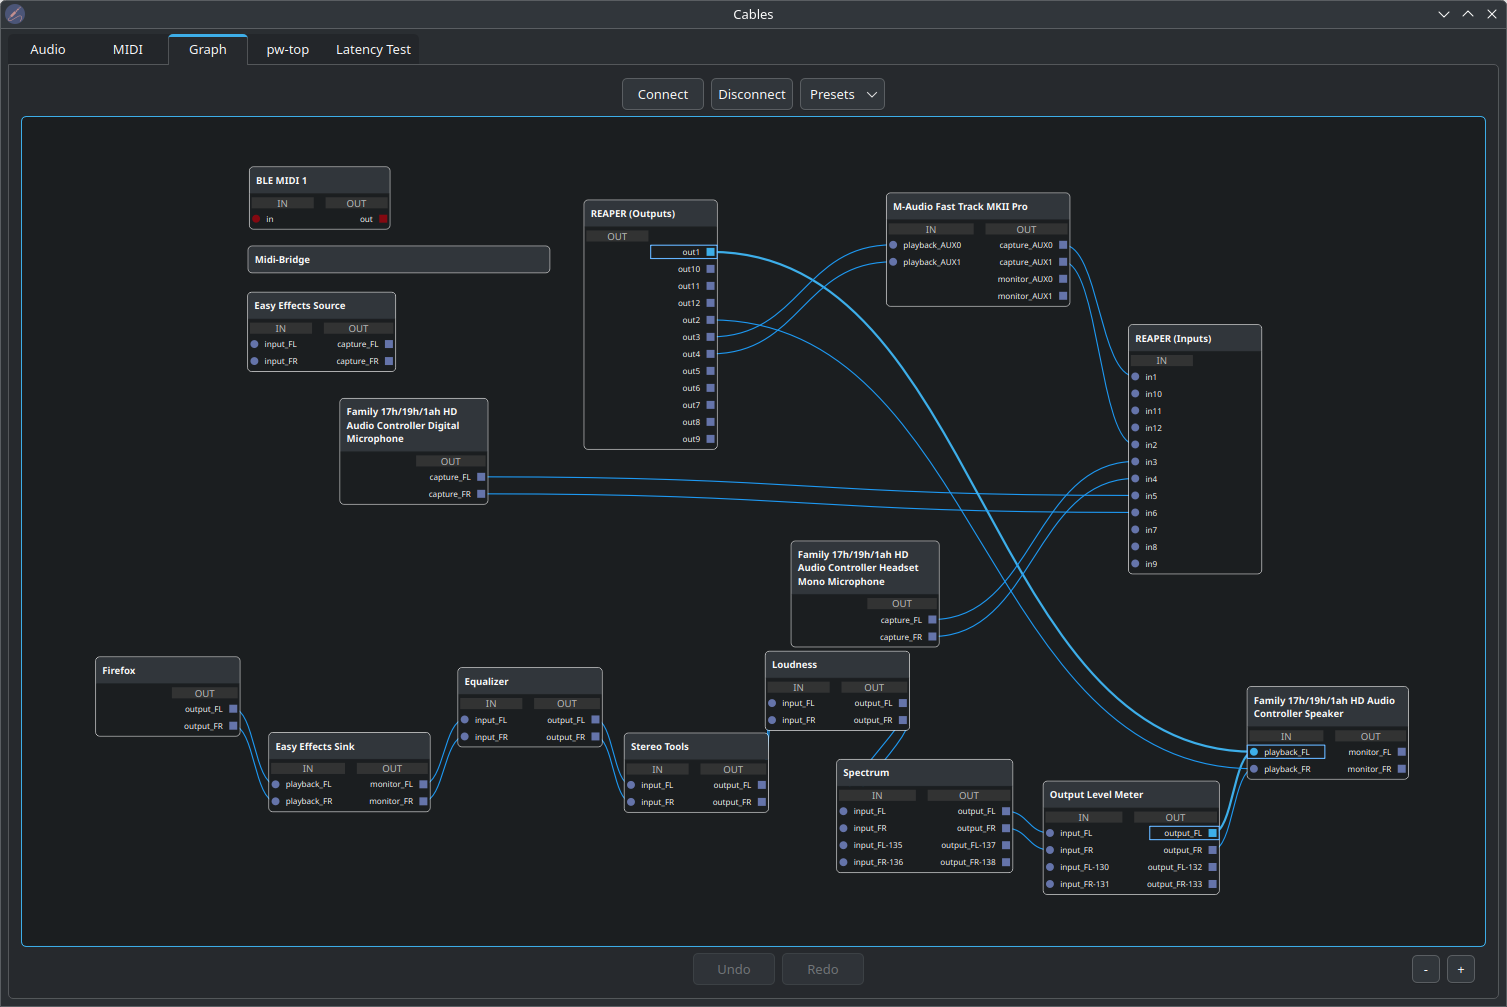
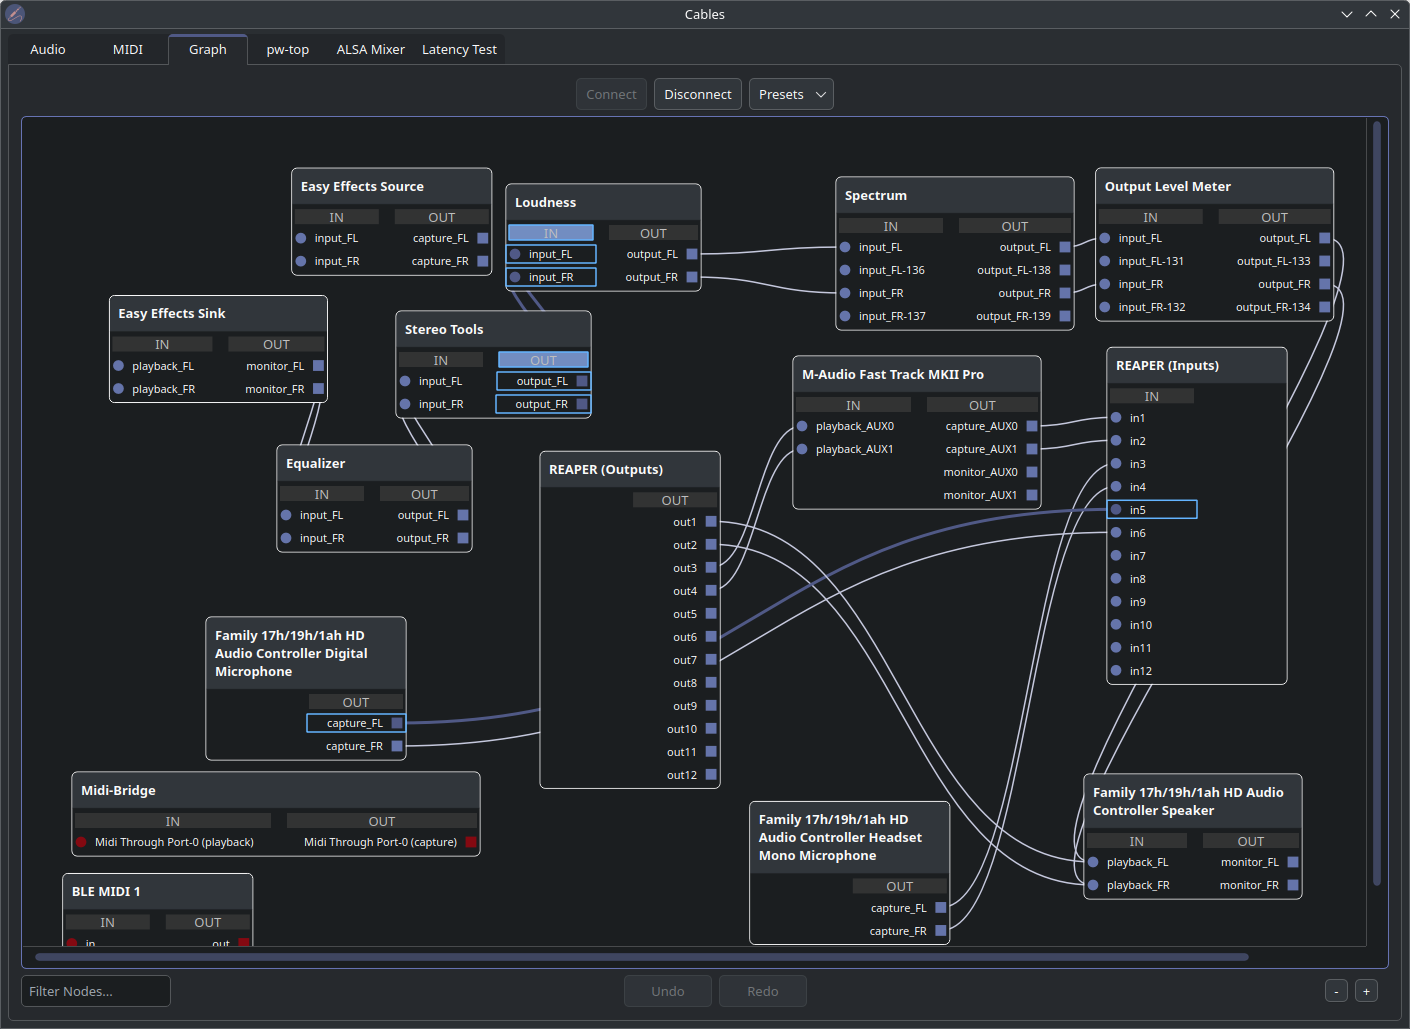
added ALSA mixer tab, in Graph tab: added filter box, fixed fold state not restored at start, improved Connect button activation logic, fixed ports sorting, fixed MIDI ports sorting, improved split nodes positioning, improved split nodes layout

diff --git a/cable_core/app_config.py b/cable_core/app_config.py
@@ -1,7 +1,7 @@
 # cable_core/app_config.py
 
 # --- Application Version ---
-APP_VERSION = "0.9.6"
+APP_VERSION = "0.9.8"
 # Main App Window (Cable.py)
 MAIN_WINDOW_MIN_WIDTH = 300
 MAIN_WINDOW_MIN_HEIGHT = 600
